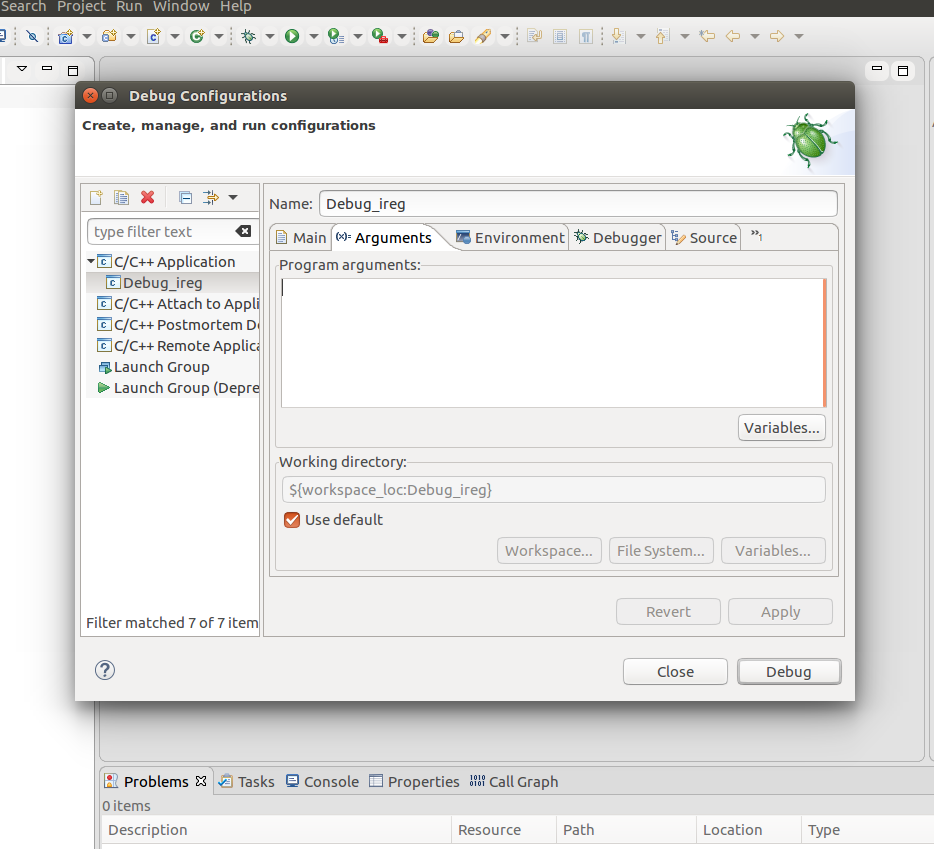
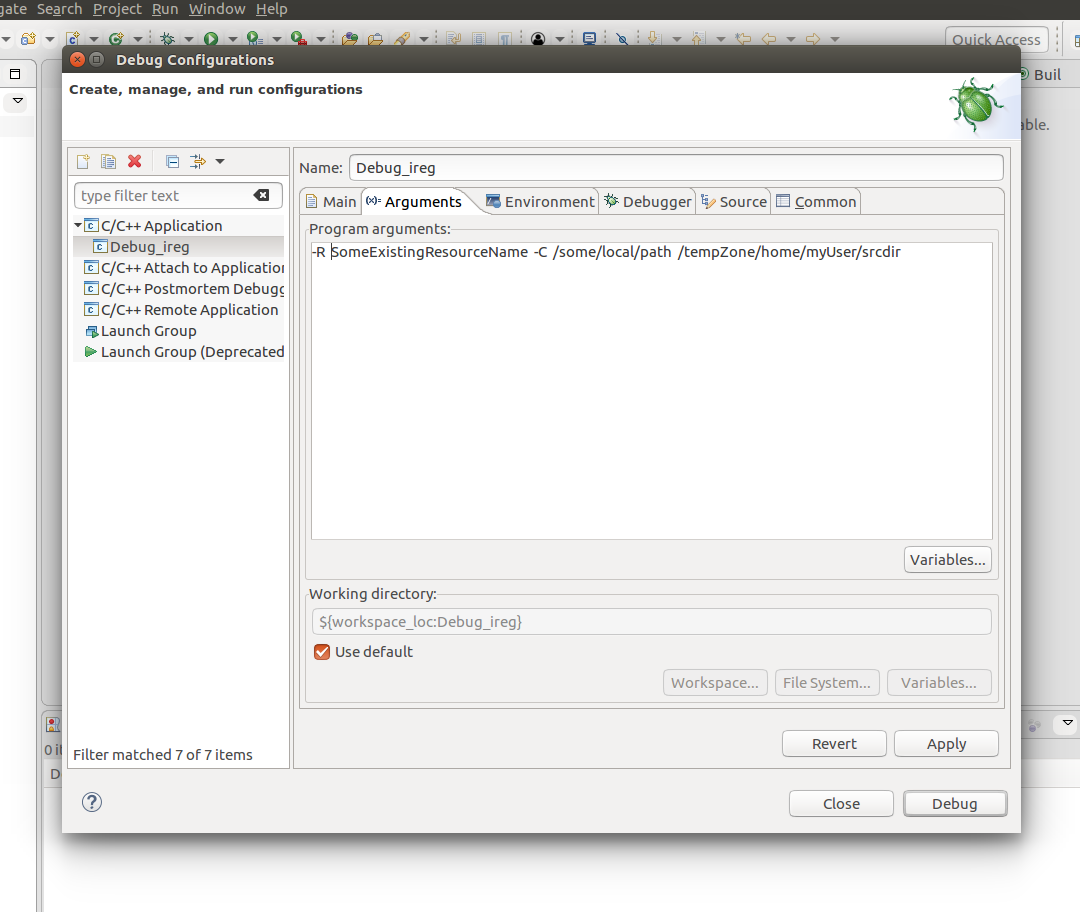
Interim checkin. Do not look

diff --git a/Eclipse-attach-to-icommand-executable.md b/Eclipse-attach-to-icommand-executable.md
@@ -116,16 +116,13 @@ Type in "/usr/bin/ireg", and click "Next".
 
 In the dialog above, you can use the names eclipse sets up, or enter your own, then click "Finish".
 
+The next dialog pops up. This is where you can enter information about the runtime environment for the debugged executable, as well as where the sources are:
 
-![Choose Project](images/debug-icmds-image5.png "Create an a new executable project") 
+First we'll set up the runtime command line parameters.  Click on the "Arguments" tab:
 
-Temporary text while under construction
+![Enter runtime program arguments](images/debug-icmds-image6.png "Enter runtime program arguments") 
 
-
-![Choose Project](images/debug-icmds-image6.png "Create an a new executable project") 
-
-Temporary text while under construction
-
+The information shown is imaginary of course.  Before we run the debugger for real, we will need to refer to an existing iRODS resource, an existing user directory or file, and a real target. Enter the information, and then click on the "Source" tab:
 
 ![Choose Project](images/debug-icmds-image7.png "Create an a new executable project") 
 
